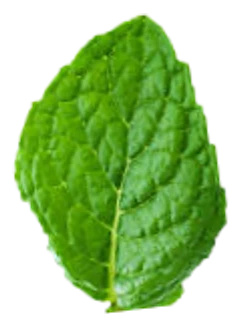
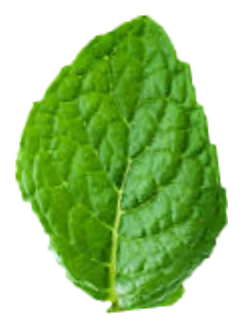
Keep the plant's shadow outside its growth mask
The mask was cropping the photo's drop shadow into a grey box. Also clears
residual backdrop from the cut-outs.

Claude-Session: https://claude.ai/code/session_016i9iapxKng1zYPVoY6LXrL

diff --git a/components/mint.tsx b/components/mint.tsx
@@ -5,10 +5,17 @@ import type { CSSProperties } from "react";
 // (any resolution with those proportions), leaf base at the bottom centre and the
 // tip 602 units above it. All photographs are prepared by scripts/prepare-photos.mjs.
 const ART = { width: 480, height: 660, baseX: 240, baseY: 628, length: 602 };
-const artFile = (variant: number) => `/leaves/leaf-${(((variant - 1) % 3) + 3) % 3 + 1}.webp`;
+const artFile = (variant: number) =>
+  `/leaves/leaf-${((((variant - 1) % 3) + 3) % 3) + 1}.webp`;
 
 /** A leaf image inside an SVG, base at the origin and tip `length` units straight up. */
-export function LeafImage({ length, variant = 1 }: { length: number; variant?: number }) {
+export function LeafImage({
+  length,
+  variant = 1,
+}: {
+  length: number;
+  variant?: number;
+}) {
   const k = length / ART.length;
   return (
     <image
@@ -85,18 +92,23 @@ export function GrowingMint({
       style={{ aspectRatio: `${art.width} / ${art.height}`, ...style }}
       aria-hidden="true"
     >
-      {ground && <span className="ground absolute inset-x-[8%] -bottom-[3%] h-[7%] rounded-[50%]" />}
-      <div className={`absolute inset-0 ${art.motion}`}>
-        <div className="photo-sway size-full">
-          <Image
-            src={art.src}
-            alt=""
-            width={art.width}
-            height={art.height}
-            priority={priority}
-            sizes="(min-width: 1024px) 480px, 60vw"
-            className="size-full object-contain drop-shadow-[0_18px_22px_rgba(11,34,25,0.22)]"
-          />
+      {ground && (
+        <span className="ground absolute inset-x-[8%] -bottom-[3%] h-[7%] rounded-[50%]" />
+      )}
+      {/* The shadow sits outside the growth mask, so the mask cannot crop it. */}
+      <div className="absolute inset-0 drop-shadow-[0_14px_16px_rgba(11,34,25,0.2)]">
+        <div className={`absolute inset-0 ${art.motion}`}>
+          <div className="photo-sway size-full">
+            <Image
+              src={art.src}
+              alt=""
+              width={art.width}
+              height={art.height}
+              priority={priority}
+              sizes="(min-width: 1024px) 480px, 60vw"
+              className="size-full object-contain"
+            />
+          </div>
         </div>
       </div>
       {tags &&
@@ -106,7 +118,13 @@ export function GrowingMint({
             className={`plant-tag absolute hidden rounded-full bg-white px-3 py-1.5 text-[13px] font-semibold whitespace-nowrap text-forest shadow-[0_8px_24px_-8px_rgba(11,34,25,0.45)] ring-1 ring-forest/10 sm:block ${
               tag.side === 1 ? "" : "-translate-x-full"
             } -translate-y-1/2`}
-            style={{ left: `${tag.x}%`, top: `${tag.y}%`, "--at": 0.3 + i * 0.1 } as CSSProperties}
+            style={
+              {
+                left: `${tag.x}%`,
+                top: `${tag.y}%`,
+                "--at": 0.3 + i * 0.1,
+              } as CSSProperties
+            }
           >
             {tag.text}
           </span>
@@ -126,7 +144,12 @@ export function LooseLeaf({
   style?: CSSProperties;
 }) {
   return (
-    <svg viewBox={`0 0 ${ART.width} ${ART.height}`} aria-hidden="true" className={className} style={style}>
+    <svg
+      viewBox={`0 0 ${ART.width} ${ART.height}`}
+      aria-hidden="true"
+      className={className}
+      style={style}
+    >
       <image href={artFile(variant)} width={ART.width} height={ART.height} />
     </svg>
   );
@@ -144,7 +167,10 @@ const FALLING = Array.from({ length: 14 }, (_, i) => ({
 /** Leaves drifting down through a dark band. */
 export function FallingLeaves() {
   return (
-    <div aria-hidden="true" className="pointer-events-none absolute inset-0 overflow-hidden">
+    <div
+      aria-hidden="true"
+      className="pointer-events-none absolute inset-0 overflow-hidden"
+    >
       {FALLING.map((leaf, i) => (
         <span
           key={i}
@@ -159,7 +185,10 @@ export function FallingLeaves() {
             } as CSSProperties
           }
         >
-          <LooseLeaf variant={i + 1} className={`w-full ${i % 3 === 0 ? "opacity-50 blur-[1.5px]" : "opacity-90"}`} />
+          <LooseLeaf
+            variant={i + 1}
+            className={`w-full ${i % 3 === 0 ? "opacity-50 blur-[1.5px]" : "opacity-90"}`}
+          />
         </span>
       ))}
     </div>
@@ -171,7 +200,10 @@ export function Marquee({ words }: { words: string[] }) {
   const row = (hidden: boolean) => (
     <ul aria-hidden={hidden} className="flex shrink-0 items-center">
       {words.map((word, i) => (
-        <li key={word} className="flex items-center font-display text-3xl whitespace-nowrap sm:text-5xl">
+        <li
+          key={word}
+          className="flex items-center font-display text-3xl whitespace-nowrap sm:text-5xl"
+        >
           <span className="px-6 sm:px-10">{word}</span>
           <LooseLeaf variant={i + 1} className="w-5 rotate-[55deg] sm:w-7" />
         </li>
@@ -190,5 +222,10 @@ export function Marquee({ words }: { words: string[] }) {
 
 /** A leaf used as a list bullet. */
 export function LeafBullet({ index = 0 }: { index?: number }) {
-  return <LooseLeaf variant={index + 1} className="mt-0.5 w-4 shrink-0 rotate-[35deg]" />;
+  return (
+    <LooseLeaf
+      variant={index + 1}
+      className="mt-0.5 w-4 shrink-0 rotate-[35deg]"
+    />
+  );
 }
